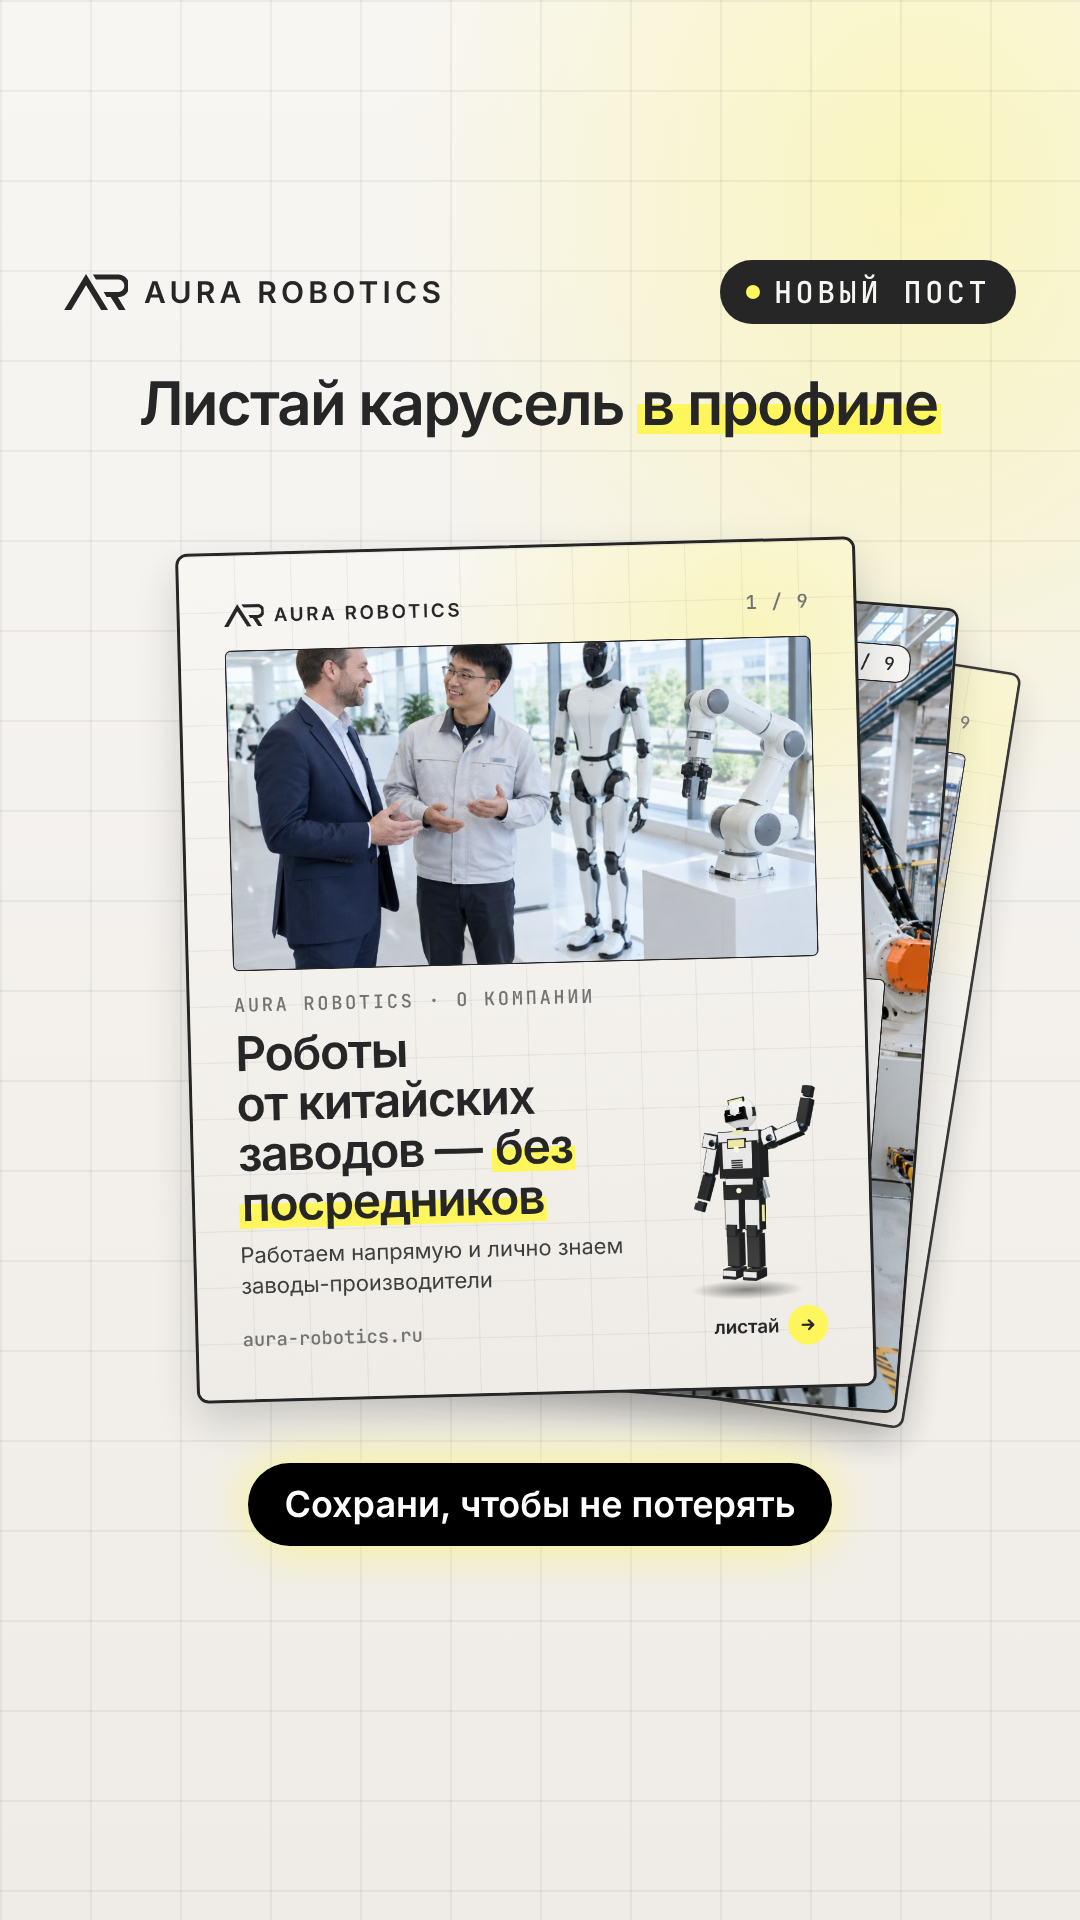
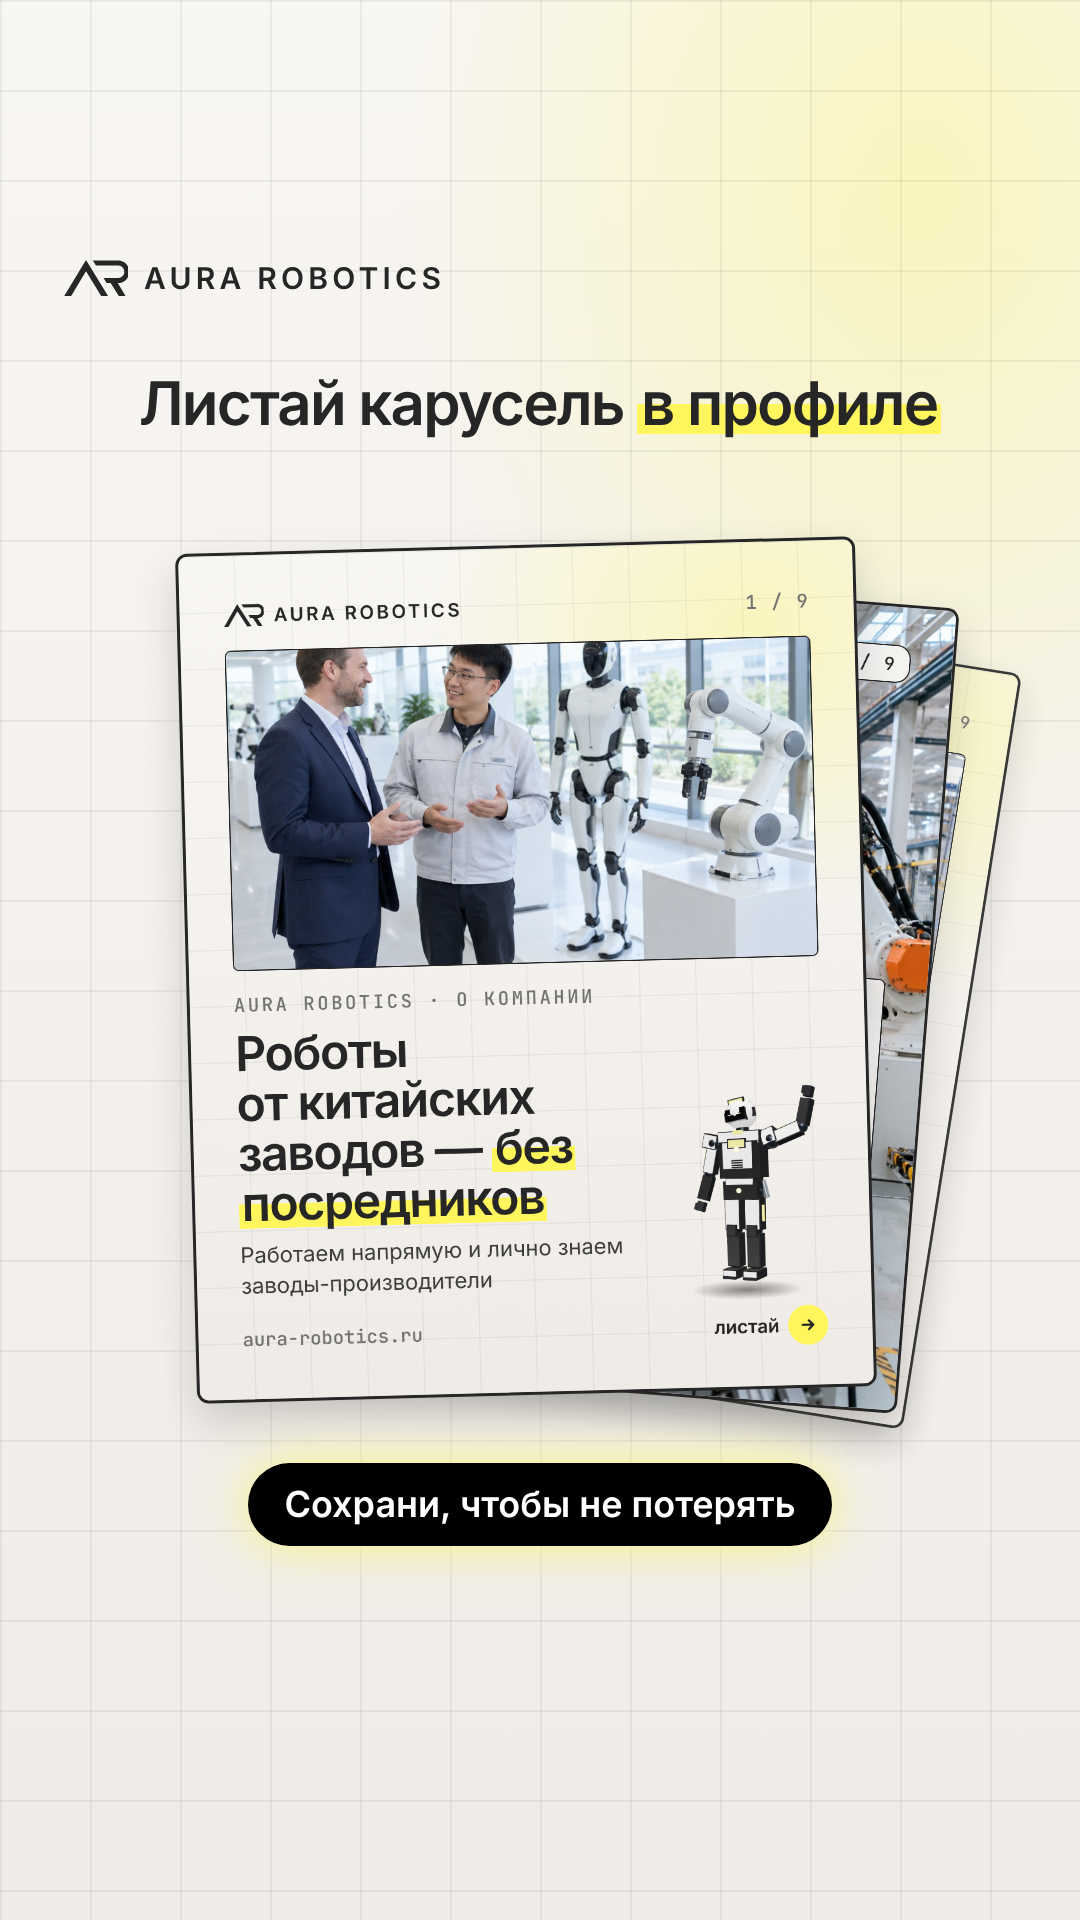
Stories: плашка «Новый пост» / «Новый Reels» убрана из шаблонов (без kicker — без плашки), анонсы перерисованы
Решение пользователя 12.10.2026: «название новый пост убрать с картинки и больше нигде не использовать».

Claude-Session: https://claude.ai/code/session_01GWbvgKxue3PjjbbHEP4BVJ

Changed region(s): [[0.6722, 0.125, 0.9472, 0.1875], [0.0611, 0.125, 0.4278, 0.1562]]

diff --git a/reels-studio/src/compositions/StoryAnnounce.tsx b/reels-studio/src/compositions/StoryAnnounce.tsx
@@ -1,6 +1,7 @@
 // Сторис-анонс карусели (решение пользователя 11.10.2026: «Пн — карусель, Вт — сторис-анонс, Ср — Reels по тому же туру»).
 // 1080×1920, один кадр = одна сторис. Обложка карусели стопкой со следующими слайдами на фоне бренда (стили — carousel/kit.tsx),
-// сверху знак бренда и «Новый пост», заголовок, внизу плашка-подсказка («Завтра в 19:00 — ролик об этом туре»).
+// сверху знак бренда (и плашка-кикер, если задана: «Модель дня»), заголовок, внизу плашка-подсказка.
+// Плашку «Новый пост» не ставим нигде (решение пользователя 12.10.2026: «название новый пост убрать с картинки и больше нигде не использовать»).
 // Безопасная зона Stories: сверху 250 px (полоски и аватар), снизу 380 px (строка ответа), по бокам 64 px.
 // Рендер всех анонсов: npm run announce -- <имя> (props/announces/<имя>.json → finished-videos/анонсы/<имя>/01.png …).
 import React from "react";
@@ -14,7 +15,7 @@ export const storyAnnounceSchema = z.object({
     z.object({
       cover: z.string(), // обложка карусели (01.png), путь от корня репозитория
       back: z.array(z.string()).optional(), // 1–2 следующих слайда — «стопка» за обложкой, видно, что это карусель
-      kicker: z.string().optional(), // плашка справа сверху, по умолчанию «Новый пост»
+      kicker: z.string().optional(), // плашка справа сверху («Модель дня»); без поля — без плашки
       title: z.string().optional(), // заголовок над обложкой, **слово** — акцент
       note: z.string().optional(), // плашка под обложкой
     }),
@@ -76,10 +77,10 @@ export const StoryAnnounce: React.FC<StoryAnnounceProps> = ({brand, stories, gui
   return (
     <AbsoluteFill style={{...s.bg}}>
       <AbsoluteFill style={{...s.pattern}} />
-      {/* шапка: знак бренда и плашка «Новый пост» */}
+      {/* шапка: знак бренда и плашка-кикер, если задана */}
       <div style={{position: "absolute", top: STORY.top + 10, left: STORY.side, right: STORY.side, display: "flex", alignItems: "center", justifyContent: "space-between"}}>
         <BrandMark brand={brand} s={s} />
-        <Badge text={st.kicker ?? "Новый пост"} s={s} />
+        {st.kicker ? <Badge text={st.kicker} s={s} /> : null}
       </div>
       {/* заголовок */}
       {st.title ? (

diff --git a/reels-studio/src/compositions/StoryReel.tsx b/reels-studio/src/compositions/StoryReel.tsx
@@ -14,7 +14,7 @@ export const storyReelSchema = z.object({
   video: z.string(), // ролик 9:16, путь от корня репозитория
   seconds: z.number(), // длина Stories (с): весь ролик или кусок для тизера
   from: z.number().optional(), // с какой секунды ролика начать (тизер-анонс — кусок ролика; по умолчанию 0)
-  kicker: z.string().optional(), // плашка справа сверху («Новый Reels», «Мой проект»; "" — без плашки)
+  kicker: z.string().optional(), // плашка справа сверху («Мой проект», «Завтра»); без поля — без плашки («Новый Reels» / «Новый пост» не ставим)
   title: z.string().optional(), // заголовок над роликом, **слово** — акцент
   note: z.string().optional(), // плашка под роликом
 });
@@ -31,7 +31,7 @@ export const StoryReel: React.FC<StoryReelProps> = ({brand, video, from = 0, kic
       <AbsoluteFill style={{...s.pattern}} />
       <div style={{position: "absolute", top: STORY.top + 10, left: STORY.side, right: STORY.side, display: "flex", alignItems: "center", justifyContent: "space-between"}}>
         <BrandMark brand={brand} s={s} />
-        {kicker === "" ? null : <Badge text={kicker ?? "Новый Reels"} s={s} />}
+        {kicker ? <Badge text={kicker} s={s} /> : null}
       </div>
       {title ? (
         <div style={{position: "absolute", top: STORY.top + 105, left: STORY.side, right: STORY.side, fontFamily: s.head, fontWeight: s.headWeight, letterSpacing: s.headTrack, fontSize: 54, lineHeight: 1.1, color: s.ink, textAlign: "center", whiteSpace: "pre-line"}}>

diff --git a/reels-studio/src/Root.tsx b/reels-studio/src/Root.tsx
@@ -93,7 +93,7 @@ export const RemotionRoot: React.FC = () => {
         fps={30}
         durationInFrames={300}
         schema={storyReelSchema}
-        defaultProps={{brand: "aura", video: "finished-videos/2026-10-12-foto-aura-intro-reels.mp4", seconds: 48.5, kicker: "Новый Reels", title: "Роботы **без посредников**", note: "Смотри в профиле"} as StoryReelProps}
+        defaultProps={{brand: "aura", video: "finished-videos/2026-10-12-foto-aura-intro-reels.mp4", seconds: 48.5, title: "Роботы **без посредников**", note: "Смотри в профиле"} as StoryReelProps}
         calculateMetadata={({props}: {props: StoryReelProps}) => ({durationInFrames: Math.round(props.seconds * 30)})}
       />
       <Composition

diff --git a/reels-studio/CLAUDE.md b/reels-studio/CLAUDE.md
@@ -500,7 +500,8 @@ nod, scan, shrug`. Превью логотипа и всех жестов — к
 Связка недели в Instagram: пн — карусель по туру, вт — Stories-анонс этой карусели, ср — Reels по тому же туру
 (расписание — POST-HUB `GTT/INSTAGRAM/RULES.md`). Анонс — композиция `StoryAnnounce` (`src/compositions/StoryAnnounce.tsx`),
 1080×1920, один кадр = одна сторис, стили брендов те же, что у каруселей (`carousel/kit.tsx`, `brand`: `gtt` / `aura`):
-сверху знак бренда и плашка «Новый пост» (`kicker`), заголовок (`title`, по умолчанию «Листай карусель **в профиле**»),
+сверху знак бренда (плашка `kicker` — только по делу, например «Модель дня»; **«Новый пост» и «Новый Reels» не ставим нигде** —
+решение пользователя 12.10.2026), заголовок (`title`, по умолчанию «Листай карусель **в профиле**»),
 обложка карусели (`cover`) стопкой с 1–2 следующими слайдами (`back`), внизу плашка (`note`: «Завтра в 19:00 — ролик об этом
 туре» или «Сохрани, чтобы не потерять»). Безопасная зона Stories: сверху 250 px, снизу 380 px, по бокам 64 px.
 `npm run announce -- <имя>` (props `props/announces/<имя>.json`, примеры `пример-gtt.json`, `пример-aura.json`) →

diff --git a/reels-studio/README.md b/reels-studio/README.md
@@ -168,7 +168,7 @@ npm run announce -- <имя>            # → finished-videos/анонсы/<им
 npm run announce -- <имя> --guides   # безопасная зона Stories (250 px сверху, 380 px снизу): лист _лист-зоны.jpg
 ```
 
-1080×1920: знак бренда и «Новый пост», заголовок, обложка карусели стопкой со следующими слайдами (`cover`, `back`),
+1080×1920: знак бренда (без плашки «Новый пост» — решение пользователя 12.10.2026), заголовок, обложка карусели стопкой со следующими слайдами (`cover`, `back`),
 плашка внизу (`note`). Вторник после карусели, связка недели — в POST-HUB `GTT/INSTAGRAM/RULES.md`.
 
 ### Reels из карусели (с музыкой)
